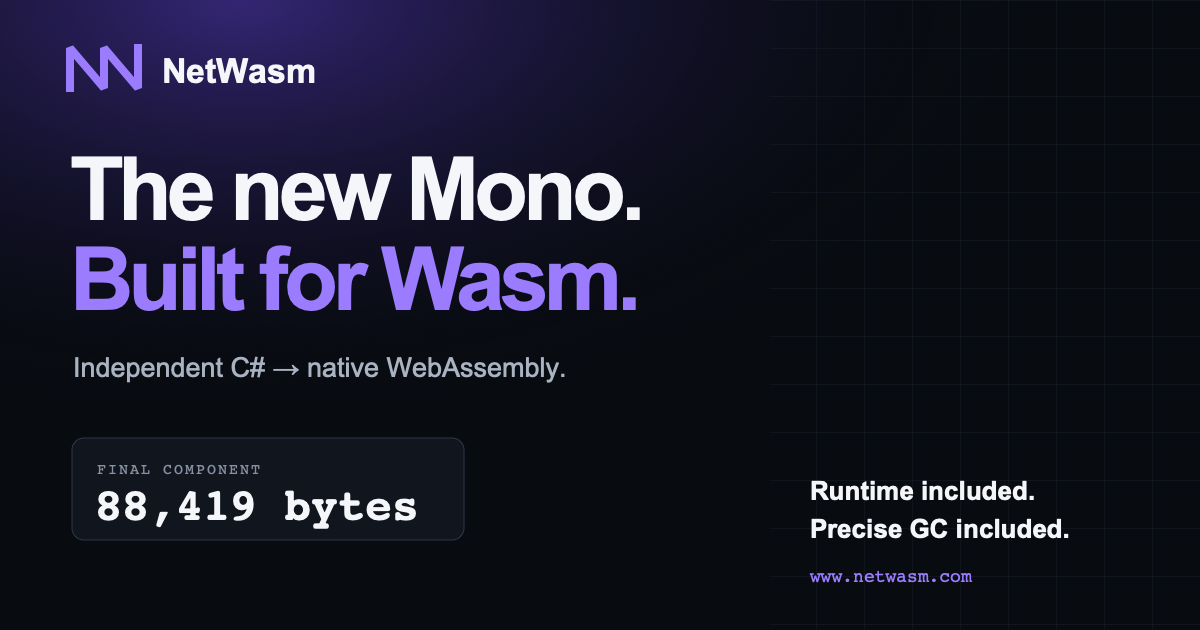
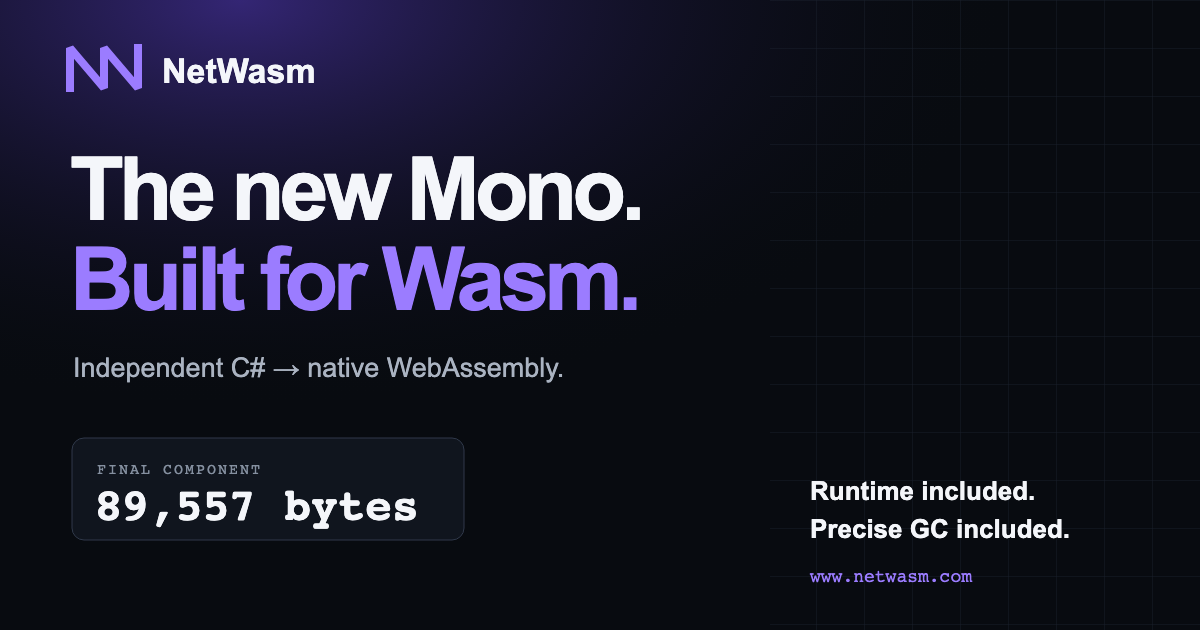
Update NetWasm 0.4.2 size claim

diff --git a/index.html b/index.html
@@ -8,12 +8,12 @@
     <meta name="description" content="The new Mono, built for WebAssembly. NetWasm compiles C# 15 into standalone Wasm Components with its own compiler, runtime, CoreLib, SDK, and ecosystem.">
     <meta property="og:type" content="website">
     <meta property="og:title" content="NetWasm — The new Mono, built for Wasm">
-    <meta property="og:description" content="C# 15 to native WebAssembly. One standalone 88,419-byte component, runtime and precise GC included.">
+    <meta property="og:description" content="C# 15 to native WebAssembly. One standalone 89,557-byte component, runtime and precise GC included.">
     <meta property="og:url" content="https://www.netwasm.com/">
     <meta property="og:image" content="https://www.netwasm.com/og-card.png">
     <meta name="twitter:card" content="summary_large_image">
     <meta name="twitter:title" content="NetWasm — The new Mono, built for Wasm">
-    <meta name="twitter:description" content="C# 15 to native WebAssembly. One standalone 88,419-byte component, runtime and precise GC included.">
+    <meta name="twitter:description" content="C# 15 to native WebAssembly. One standalone 89,557-byte component, runtime and precise GC included.">
     <meta name="twitter:image" content="https://www.netwasm.com/og-card.png">
     <link rel="canonical" href="https://www.netwasm.com/">
     <link rel="icon" href="favicon.svg" type="image/svg+xml" sizes="any">
@@ -75,7 +75,7 @@
           </div>
           <div class="proof-body">
             <p class="proof-label">FINAL COMPONENT</p>
-            <p class="proof-number">88,419</p>
+            <p class="proof-number">89,557</p>
             <p class="proof-unit">bytes</p>
             <div class="proof-rule"></div>
             <ul>
